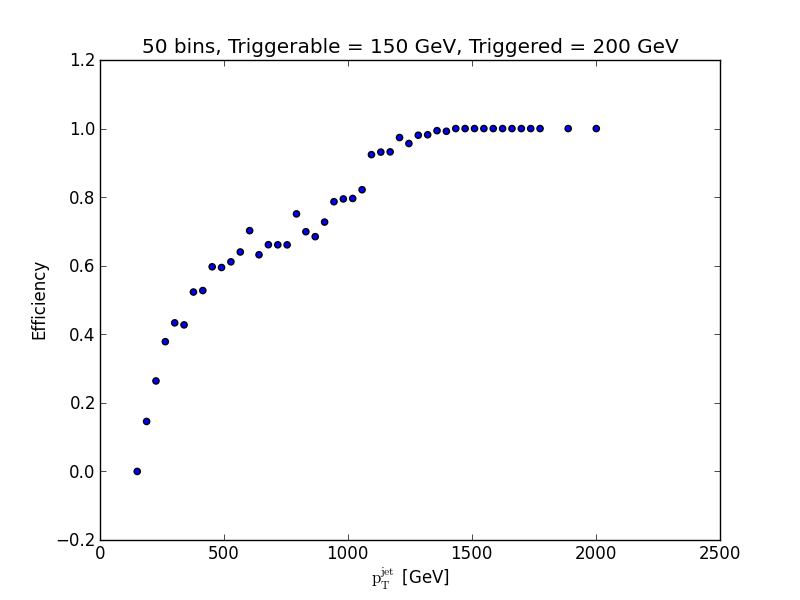
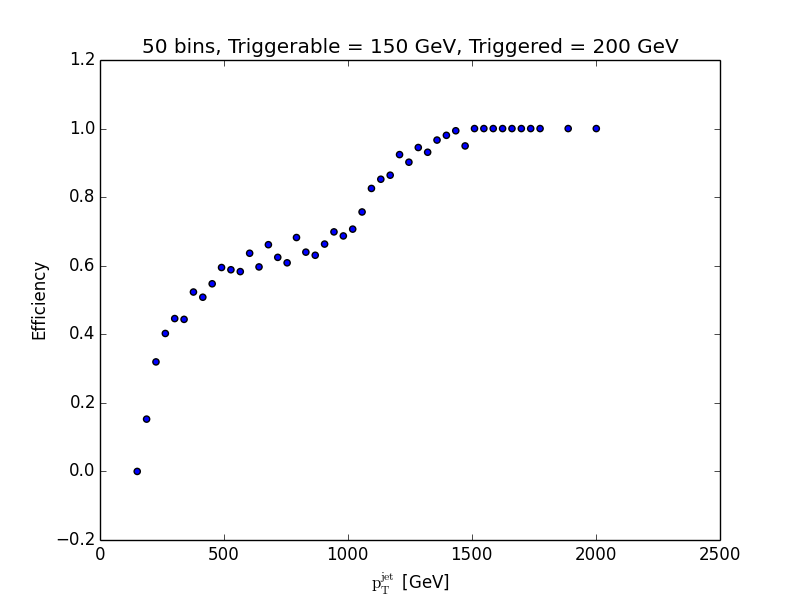
Gaussian jets added. New images generated for efficiency. Please note that we still see a dip around 1000 GeV in the jets-efficiency. This is an interesting feature that could be due to the distribution of jets around eta=0 as we only look at jets with eta>0.

diff --git a/summedAreaTable.py b/summedAreaTable.py
@@ -2,13 +2,12 @@ import ROOT
 import numpy as np
 import pylab as pl
 import matplotlib
-#import scipy.special
 import root_numpy as rnp
 
 #absolute filenames make sense, easier to find what file we talking about
 filename = '/Users/giordon/Dropbox/UChicagoSchool/DavidMiller/Data/gFEXSlim_ttbar_zprime3000.root'
 #load up the root file into a numpy.darray
-events = rnp.root2array(filename, 'jets')
+events = rnp.root2rec(filename, 'jets')
 #map pointers to column names within the file
 jetE,jetPt,jetM,jetEta,jetPhi,_,_,_,_,_ = events.dtype.names
 #jetE: jet energy
@@ -63,28 +62,41 @@ def gridInitialize():
   #note that phieta2cell(domain[:,0]) = (0,0) by definition
   return np.zeros(phieta2cell(domain[:,1])).astype(float)
 
-#work around since David doesn't have SciPy working
+# work around since David doesn't have SciPy working
+# will try to use scipy.special.erf(x), but defaults to
+#       custom function (not as accurate)
 def erf(x):
-  # save the sign of x
-  sign = 1 if x >= 0 else -1
-  x = np.fabs(x)
-  # constants
-  a1 =  0.254829592
-  a2 = -0.284496736
-  a3 =  1.421413741
-  a4 = -1.453152027
-  a5 =  1.061405429
-  p  =  0.3275911
-  # A&S formula 7.1.26
-  t = 1.0/(1.0 + p*x)
-  y = 1.0 - (((((a5*t + a4)*t) + a3)*t + a2)*t + a1)*t*np.exp(-x*x)
-  return sign*y # erf(-x) = -erf(x)
+  try: 
+    import scipy.special
+    erf_loaded = True 
+  except ImportError: 
+    erf_loaded = False 
+
+  if erf_loaded:
+    return scipy.special.erf(x)
+  else:
+    # save the sign of x
+    sign = 1 if x >= 0 else -1
+    x = np.fabs(x)
+    # constants
+    a1 =  0.254829592
+    a2 = -0.284496736
+    a3 =  1.421413741
+    a4 = -1.453152027
+    a5 =  1.061405429
+    p  =  0.3275911
+    # A&S formula 7.1.26
+    t = 1.0/(1.0 + p*x)
+    y = 1.0 - (((((a5*t + a4)*t) + a3)*t + a2)*t + a1)*t*np.exp(-x*x)
+    return sign*y # erf(-x) = -erf(x)
 
 # returns a 2D gaussian centered at mu evaluated at coord (must be in cell grid)
 def gaussian2D(mu, sigma, amplitude, coord):
   # normalize gaussian so that the integral is just the amplitude
   #    Note: normalization is 2 pi sx sy * amplitude
-  A = amplitude/(2*np.pi*sigma[0]*sigma[1]*erf(2.**-0.5)**2.)
+
+  # normalized such that testScript outputs 476.275
+  A = amplitude/(2*np.pi*sigma[0]*sigma[1]*erf(0.92*(2.**-0.5))**2.)
   #A = amplitude/(2*np.pi*sigma[0]*sigma[1]*scipy.special.erf(2.**-0.5)**2.)
   exponential = np.exp(-( (mu[0] - coord[0])**2./(2.*(sigma[0]**2.)) + (mu[1] - coord[1])**2./(2.*(sigma[1]**2.))  ))
   return A*exponential
@@ -152,7 +164,7 @@ def gridAddJet(grid, jetPt, jetPhi, jetEta):
       # -- the reason is that we filter out all inappropriate eta coordinates
       #        and then wrap around in the phi coordinates
       print "\t"*2, '-- jet coord could not be added:', coord
-  print jetPt, energyRecorded, cell2phieta(jetCoords)
+  #print jetPt, energyRecorded, cell2phieta(jetCoords)
   return energyRecorded
 
 def gridPlotEvent(grid, triggerableJets):
@@ -193,7 +205,7 @@ def computeEfficiency():
   triggerableJets = []
   triggeredJets = []
   for event in events:
-    triggerableJets = []
+    #triggerableJets = []
     grid = gridInitialize()
     e_jetE,e_jetPt,e_jetM,e_jetEta,e_jetPhi,_,_,_,_,_ = event
     e_jetPt /= 1000.
@@ -210,7 +222,7 @@ def computeEfficiency():
       gFEXpT = gridAddJet(grid, j_jetPt, j_jetPhi, j_jetEta)
       if gFEXpT > triggeredThresh:
         triggeredJets.append([j_jetPt, j_jetPhi, j_jetEta])
-    gridPlotEvent(grid, np.array(triggerableJets))
+    #gridPlotEvent(grid, np.array(triggerableJets))
   triggerableJets = np.array(triggerableJets)
   triggeredJets = np.array(triggeredJets)
   binRange = (triggerableJets[:,0].min(), triggerableJets[:,0].max())
@@ -226,8 +238,9 @@ def computeEfficiency():
   pl.title('%d bins, Triggerable = %d GeV, Triggered = %d GeV' % (numBins, triggerableThresh, triggeredThresh))
   pl.savefig('efficiency_jets_%d_%d.png' % (triggerableThresh, triggeredThresh))
   #now compute the efficiency inside the gFEX by applying boundary conditions to filter out centroid locations
-  gFEX_triggerableJets = np.array(filter(lambda x: boundaryConditions(grid,phieta2cell((x[1],x[2]))), triggerableJets))
-  gFEX_removedJets = np.array(filter(lambda x: not boundaryConditions(grid,phieta2cell((x[1],x[2]))), triggerableJets))
+
+  gFEX_triggerableJets = np.array(filter(lambda x: x[2] >= 0.0, triggerableJets))
+  gFEX_removedJets = np.array(filter(lambda x: x[2] < 0.0, triggerableJets))
   gFEX_triggeredJets = np.array([jet for jet in triggeredJets if jet not in gFEX_removedJets])
   gFEX_histTriggerable = np.histogram(gFEX_triggerableJets[:,0], range=binRange, bins=numBins)
   gFEX_histTriggered = np.histogram(gFEX_triggeredJets[:,0], range=binRange, bins=numBins)
@@ -240,4 +253,10 @@ def computeEfficiency():
   pl.title('%d bins, Triggerable = %d GeV, Triggered = %d GeV' % (numBins, triggerableThresh, triggeredThresh))
   pl.savefig('efficiency_gFEX_%d_%d.png' % (triggerableThresh, triggeredThresh))
 
-#computeEfficiency()
+def testScript():
+  global resolution
+  resolution /= 10.
+  grid = gridInitialize()
+  print gridAddJet(grid, 500., 0.0, 1.6)
+
+computeEfficiency()
